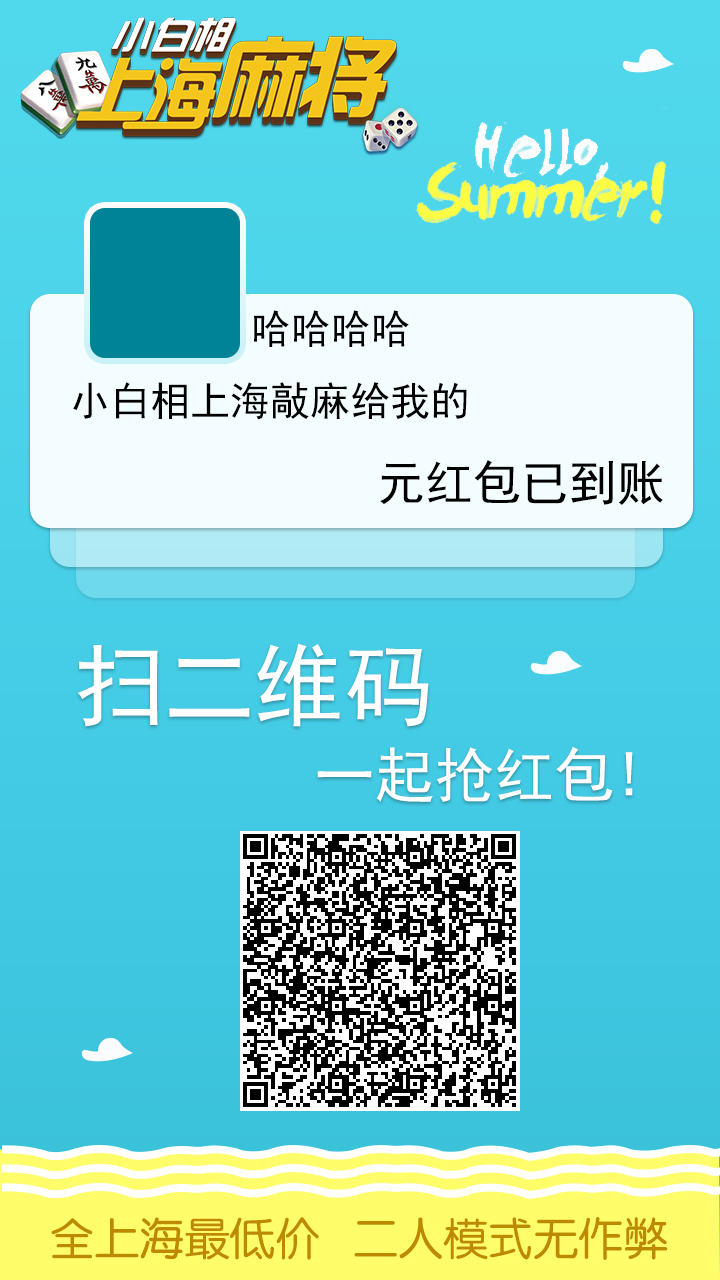
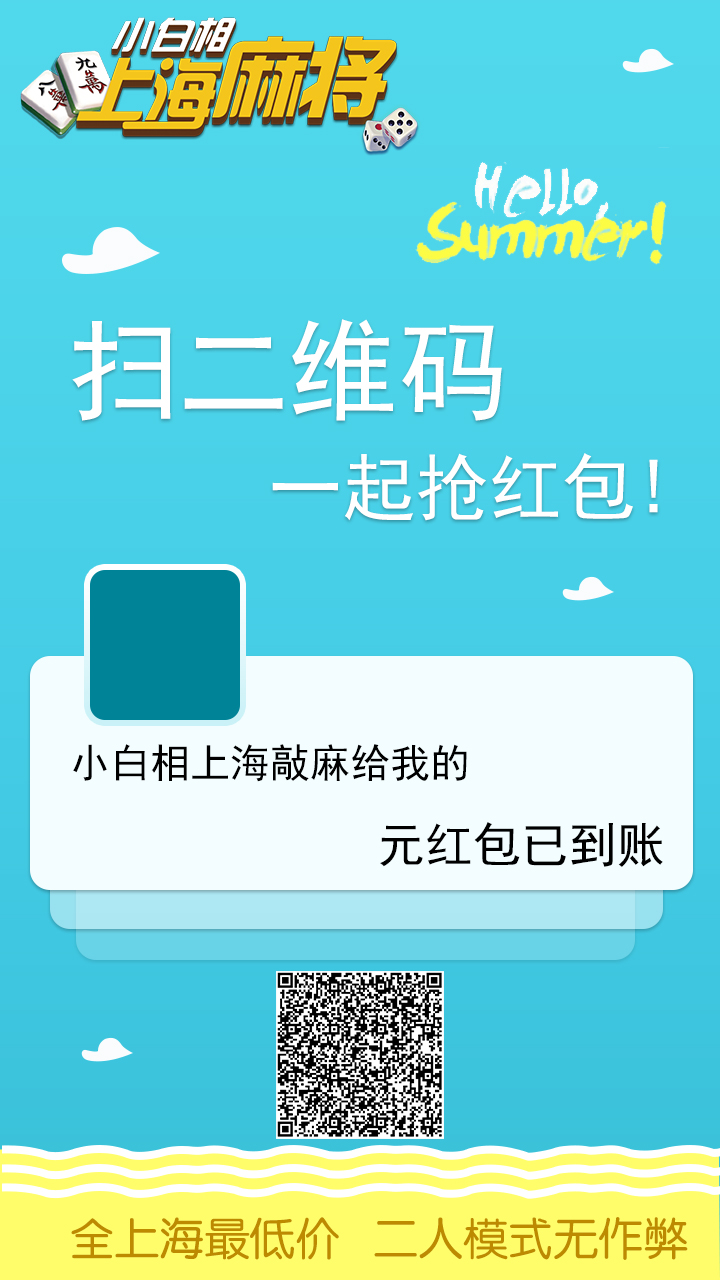
大赢家分享界面

diff --git a/Mahjong/Classes/mahjong/result/hongbao/HongbaoAnim.cpp b/Mahjong/Classes/mahjong/result/hongbao/HongbaoAnim.cpp
@@ -170,32 +170,92 @@ void HongbaoAnim::goBack(){
 void HongbaoAnim::share(){
     GAMEDATA::getInstance()->setHasShowHongbaoResult(true);
     auto hbLayer = Layer::create();
-    
-    auto hongbaobg = Sprite::create("hongbao/share_hong_bao_bg.jpg");
-    hongbaobg->setAnchorPoint(Point::ANCHOR_BOTTOM_LEFT);
-    hongbaobg->setPosition(0,0);
-    hbLayer->addChild(hongbaobg);
-    
-    auto headImage = HeadImage::createByImage(UserData::getInstance()->getPicture(),Size(70,70));
-    headImage->setPosition(150, 100);
-    hbLayer->addChild(headImage, 10);
-    
-    auto nick = Label::createWithSystemFont(UserData::getInstance()->getNickName(),"arial",20);
-    nick->setPosition(150,50);
-    hbLayer->addChild(nick);
-    
-    std::string number = getHongBaoNum();
-    int pos  =  (int)number.find(".");
-    if(pos>=0){
-        number.replace(pos,1, ":");
+    int num = random(0,3);
+    if(num ==0){
+        auto hongbaobg = Sprite::create("share/share_bg_1.jpg");
+        hongbaobg->setAnchorPoint(Point::ANCHOR_BOTTOM_LEFT);
+        hongbaobg->setPosition(0,0);
+        hbLayer->addChild(hongbaobg);
+        
+        auto headImage = HeadImage::createByImage(UserData::getInstance()->getPicture(),Size(150,150));
+        headImage->setPosition(360, 530);
+        hbLayer->addChild(headImage, 10);
+        
+        auto nick = Label::createWithSystemFont(UserData::getInstance()->getNickName(),"arial",36);
+        nick->setPosition(360,425);
+        hbLayer->addChild(nick);
+        
+        std::string number = getHongBaoNum();
+        int pos  =  (int)number.find(".");
+        if(pos>=0){
+            number.replace(pos,1, ":");
+        }
+        
+        LabelAtlas* hongnum = LabelAtlas::create(number, "share/hongbao_num.png",54,94, '0');
+        hongnum->setAnchorPoint(Point::ANCHOR_MIDDLE_RIGHT);
+        hongnum->setPosition(455,730);
+        hbLayer->addChild(hongnum);
+        
+    }
+    else if(num == 1){
+        auto hongbaobg = Sprite::create("share/share_bg_2.jpg");
+        hongbaobg->setPosition(360,640);
+        hbLayer->addChild(hongbaobg);
+        
+        auto headImage = HeadImage::createByImage(UserData::getInstance()->getPicture(),Size(150,150));
+        headImage->setPosition(165, 635);
+        hbLayer->addChild(headImage, 10);
+        
+        auto nick = Label::createWithSystemFont(UserData::getInstance()->getNickName(),"arial",40);
+        nick->setAnchorPoint(Point::ANCHOR_MIDDLE_LEFT);
+        nick->setColor(Color3B(5,90,107));
+        nick->setPosition(255,590);
+        hbLayer->addChild(nick);
+        
+        Label* hongnum = Label::createWithSystemFont(getHongBaoNum(), "arial",100);
+        hongnum->setAnchorPoint(Point::ANCHOR_MIDDLE_RIGHT);
+        hongnum->setColor(Color3B(237,82,86));
+        hongnum->setPosition(370,440);
+        hbLayer->addChild(hongnum);
+        
+    }else if(num == 2){
+        auto hongbaobg = Sprite::create("share/share_bg_3.jpg");
+        hongbaobg->setAnchorPoint(Point::ANCHOR_BOTTOM_LEFT);
+        hongbaobg->setPosition(0,0);
+        hbLayer->addChild(hongbaobg);
+        
+        Label* hongnum = Label::createWithSystemFont(getHongBaoNum(), "arial",90);
+        hongnum->setAnchorPoint(Point::ANCHOR_MIDDLE);
+        hongnum->setColor(Color3B(255,90,84));
+        hongnum->setPosition(360,420);
+        hbLayer->addChild(hongnum);
+        
+    }else {
+        auto hongbaobg = Sprite::create("share/share_bg_4.jpg");
+        hongbaobg->setAnchorPoint(Point::ANCHOR_BOTTOM_LEFT);
+        hongbaobg->setPosition(0,0);
+        hbLayer->addChild(hongbaobg);
+        
+        auto gongxi = Label::createWithSystemFont(StringUtils::format("恭喜%s在",UserData::getInstance()->getNickName().c_str()),"arial",36);
+        gongxi->setColor(Color3B::WHITE);
+        gongxi->setAnchorPoint(Point::ANCHOR_MIDDLE);
+        gongxi->setPosition(360,590);
+        hbLayer->addChild(gongxi);
+        
+        auto pride = Label::createWithSystemFont(StringUtils::format("好友房游戏中成为大赢家,奖励"),"arial",36);
+        pride->setColor(Color3B::WHITE);
+        pride->setAnchorPoint(Point::ANCHOR_MIDDLE);
+        pride->setPosition(360,530);
+        hbLayer->addChild(pride);
+        
+        Label* hongnum = Label::createWithSystemFont(getHongBaoNum(), "arial",50);
+        hongnum->setAnchorPoint(Point::ANCHOR_MIDDLE_RIGHT);
+        hongnum->setColor(Color3B::WHITE);
+        hongnum->setPosition(395,360);
+        hbLayer->addChild(hongnum);
     }
     
-    LabelAtlas* hongnum = LabelAtlas::create(number, "hongbao/share_hong_bao_num.png", 24, 40, '0');
-    hongnum->setAnchorPoint(Point::ANCHOR_MIDDLE_RIGHT);
-    hongnum->setPosition(190,190);
-    hbLayer->addChild(hongnum);
-    
-    auto renderTexture = RenderTexture::create(640, 360, Texture2D::PixelFormat::RGBA8888);
+    auto renderTexture = RenderTexture::create(720,1280, Texture2D::PixelFormat::RGBA8888);
     //清空并开始获取
     renderTexture->beginWithClear(0.0f, 0.0f, 0.0f, 0.0f);
     //遍历场景节点对象，填充纹理到RenderTexture中

diff --git a/Mahjong/Classes/mahjong/gameview/gui/GuiLayer.cpp b/Mahjong/Classes/mahjong/gameview/gui/GuiLayer.cpp
@@ -475,11 +475,11 @@ void GuiLayer::testButtonClick(){
     //    }
     //    _eventDispatcher->dispatchCustomEvent(MSG_HZ_GAME_HU_ACTION,&cpgData);
     
-//    HongbaoAnim* ami = HongbaoAnim::create();
-//    ami->initView("0.37",1);
-////    ami->initView("0.37","0.37",1,false);
-//    addChild(ami,100);
-    CompetitionResult* result = CompetitionResult::create();
-    result->showCompetiotionResult("1","1","36","30");
-    getParent()->addChild(result,100);
+    HongbaoAnim* ami = HongbaoAnim::create();
+    ami->initView("0.37",1);
+//    ami->initView("0.37","0.37",1,false);
+    addChild(ami,100);
+//    CompetitionResult* result = CompetitionResult::create();
+//    result->showCompetiotionResult("1","1","36","30");
+//    getParent()->addChild(result,100);
 }

diff --git a/Mahjong/Classes/mahjong/common/competition/CompetitionResult.cpp b/Mahjong/Classes/mahjong/common/competition/CompetitionResult.cpp
@@ -465,7 +465,6 @@ void CompetitionResult::quit(){
 
 void CompetitionResult::share(){
     auto hbLayer = Layer::create();
-    addChild(hbLayer);
     
     auto hongbaobg = Sprite::create("share/share_bg_com.jpg");
     hongbaobg->setAnchorPoint(Point::ANCHOR_BOTTOM_LEFT);
